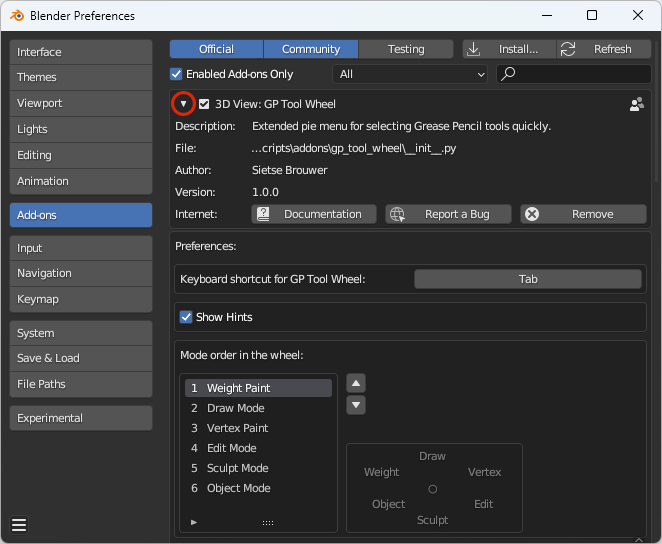
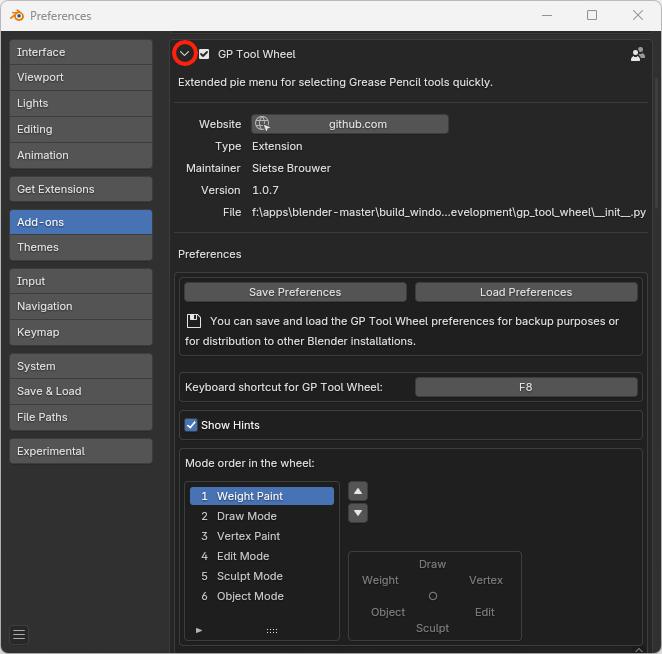
Tweaks for v1.0.7 release

diff --git a/tool_wheel_draw.py b/tool_wheel_draw.py
@@ -267,7 +267,7 @@ class ToolWheel():
         self.sep_color = self.get_adjusted_color(list(wheel_colors.outline)[0:3] + [1], -0.03)
         self.sep_color_sel = self.get_adjusted_color(self.sep_color, -0.07)
         self.text_color = wheel_colors.text
-        self.highlight_color = self.get_adjusted_color(base_color, 0.05)
+        self.highlight_color = self.get_adjusted_color(base_color, 0.07)
 
         # Init shaders
         self.shader_icon_bg = gpu.shader.from_builtin(COLOR_SHADER)

diff --git a/__init__legacy.py b/__init__legacy.py
@@ -1,7 +1,7 @@
 bl_info = {
     "name": "GP Tool Wheel",
     "author": "Sietse Brouwer",
-    "version": (1, 0, 6),
+    "version": (1, 0, 7),
     "blender": (3, 0, 0),
     "description": "Extended pie menu for selecting Grease Pencil tools quickly.",
     "doc_url": "https://github.com/SietseB/GP-Tool-Wheel",
